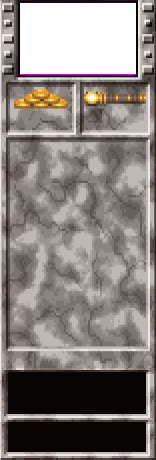
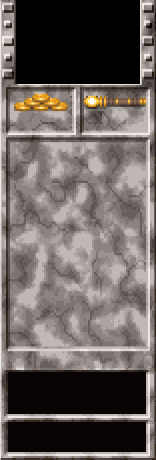
Make minimap hole the correct size; convert the overland map RHP to a use XML layout manager

Changed region(s): [[0.0, 0.0, 1.0, 0.2739], [0.4872, 0.2435, 0.5128, 0.2739]]

diff --git a/Client/src/main/java/momime/client/ui/panels/OverlandMapRightHandPanel.java b/Client/src/main/java/momime/client/ui/panels/OverlandMapRightHandPanel.java
@@ -37,6 +37,7 @@ import com.ndg.multiplayer.session.PlayerPublicDetails;
 import com.ndg.swing.GridBagConstraintsNoFill;
 import com.ndg.swing.MouseClickListener;
 import com.ndg.swing.actions.LoggingAction;
+import com.ndg.swing.layoutmanagers.xmllayout.XmlLayoutComponent;
 import com.ndg.swing.layoutmanagers.xmllayout.XmlLayoutContainerEx;
 import com.ndg.swing.layoutmanagers.xmllayout.XmlLayoutManager;
 
@@ -102,6 +103,9 @@ public final class OverlandMapRightHandPanel extends MomClientPanelUI
 
 	/** Width of the colour patch for one player */
 	private final static int COLOUR_PATCH_WIDTH = 8;
+
+	/** XML layout for the overall panel */
+	private XmlLayoutContainerEx overlandMapRightHandPanelLayout;
 	
 	/** XML layout for the surveyor subpanel */
 	private XmlLayoutContainerEx surveyorLayout;
@@ -344,12 +348,6 @@ public final class OverlandMapRightHandPanel extends MomClientPanelUI
 		final BufferedImage playerAI = getUtils ().loadImage ("/momime.client.graphics/ui/overland/rightHandPanel/playerAI.png");
 		final BufferedImage playerAllocatedMovement = getUtils ().loadImage ("/momime.client.graphics/ui/overland/rightHandPanel/playerAllocatedMovement.png");
 		
-		// Fix the size of the panel to be the same as the background
-		final Dimension backgroundSize = new Dimension (background.getWidth (), background.getHeight ());
-		getPanel ().setMinimumSize (backgroundSize);
-		getPanel ().setMaximumSize (backgroundSize);
-		getPanel ().setPreferredSize (backgroundSize);
-		
 		// Actions
 		nextTurnAction = new LoggingAction ((ev) -> getOverlandMapProcessing ().nextTurnButton ());
 		doneAction = new LoggingAction ((ev) -> getOverlandMapProcessing ().selectedUnitsDone ());
@@ -386,47 +384,36 @@ public final class OverlandMapRightHandPanel extends MomClientPanelUI
 		});
 		
 		// Set up layout
-		getPanel ().setLayout (new GridBagLayout ());
+		getPanel ().setLayout (new XmlLayoutManager (getOverlandMapRightHandPanelLayout ()));
 		
 		// Minimap view
-		final Dimension minimapSize = new Dimension (116, 73);
-		
 		final JPanel minimap = new JPanel ();
 		minimap.setBackground (new Color (0x008000));
-		minimap.setMinimumSize (minimapSize);
-		minimap.setMaximumSize (minimapSize);
-		minimap.setPreferredSize (minimapSize);
 		
-		getPanel ().add (minimap, getUtils ().createConstraintsNoFill (0, 0, 2, 1, new Insets (0, 0, 35, 0), GridBagConstraintsNoFill.CENTRE));
+		getPanel ().add (minimap, "frmRightHandPanelMiniMap");
 		
 		// Amounts stored
 		goldAmountStored = getUtils ().createShadowedLabel (Color.BLACK, MomUIConstants.GOLD, getMediumFont ());
-		
-		final GridBagConstraints goldAmountStoredConstraints = getUtils ().createConstraintsNoFill (0, 1, 1, 1, new Insets (0, 4, 0, 0), GridBagConstraintsNoFill.CENTRE);
-		goldAmountStoredConstraints.weightx = 0.5;
-		getPanel ().add (goldAmountStored, goldAmountStoredConstraints);
+		getPanel ().add (goldAmountStored, "frmRightHandPanelGoldStored");
 
 		manaAmountStored = getUtils ().createShadowedLabel (Color.BLACK, MomUIConstants.GOLD, getMediumFont ());
-		
-		final GridBagConstraints manaAmountStoredConstraints = getUtils ().createConstraintsNoFill (1, 1, 1, 1, new Insets (0, 0, 0, 2), GridBagConstraintsNoFill.CENTRE);
-		manaAmountStoredConstraints.weightx = 0.5;
-		getPanel ().add (manaAmountStored, manaAmountStoredConstraints);
+		getPanel ().add (manaAmountStored, "frmRightHandPanelManaStored");
 		
 		// Card layouts - the top and bottom are stuck directly together with 0 pixel gap in between
 		topCardLayout = new CardLayout ();
 		
 		topCards = new JPanel (topCardLayout);
 		topCards.setOpaque (false);
-		getPanel ().add (topCards, getUtils ().createConstraintsNoFill (0, 2, 2, 1, new Insets (6, 0, 0, 0), GridBagConstraintsNoFill.CENTRE));
+		getPanel ().add (topCards, "frmRightHandPanelTopCard");
 
 		bottomCardLayout = new CardLayout ();
 		
 		bottomCards = new JPanel (bottomCardLayout);
 		bottomCards.setOpaque (false);
-		getPanel ().add (bottomCards, getUtils ().createConstraintsNoFill (0, 3, 2, 1, INSET, GridBagConstraintsNoFill.CENTRE));
+		getPanel ().add (bottomCards, "frmRightHandPanelBottomCard");
 		
 		// Colour patches showing players' turn sequence
-		final Dimension colourPatchesSize = new Dimension (134, 26);
+		final XmlLayoutComponent colourPatchesSize = getOverlandMapRightHandPanelLayout ().findComponent ("frmRightHandPanelPlayerColourPatches");
 		
 		colourPatches = new JPanel ()
 		{
@@ -448,7 +435,7 @@ public final class OverlandMapRightHandPanel extends MomClientPanelUI
 							final PlayerPublicDetails player = getClient ().getPlayers ().get (playerIndex);
 							final MomTransientPlayerPublicKnowledge trans = (MomTransientPlayerPublicKnowledge) player.getTransientPlayerPublicKnowledge ();
 							g.setColor (new Color (Integer.parseInt (trans.getFlagColour (), 16)));
-							g.fillRect (x, 0, COLOUR_PATCH_WIDTH, colourPatchesSize.height);
+							g.fillRect (x, 0, COLOUR_PATCH_WIDTH, colourPatchesSize.getHeight ());
 							
 							// Draw icon for AI or human player
 							g.drawImage (player.getPlayerDescription ().isHuman () ? playerHuman : playerAI, x + 1, 1, null);
@@ -463,7 +450,7 @@ public final class OverlandMapRightHandPanel extends MomClientPanelUI
 								playerIndex = 0;
 								x++;				// leave black gap
 								g.setColor (Color.WHITE);
-								g.drawLine (x, 0, x, colourPatchesSize.height);
+								g.drawLine (x, 0, x, colourPatchesSize.getHeight ());
 								x = x + 2;		// leave white line + black gap
 							}
 						}
@@ -476,14 +463,14 @@ public final class OverlandMapRightHandPanel extends MomClientPanelUI
 						{
 							final MomTransientPlayerPublicKnowledge trans = (MomTransientPlayerPublicKnowledge) player.getTransientPlayerPublicKnowledge ();
 							g.setColor (new Color (Integer.parseInt (trans.getFlagColour (), 16)));
-							g.fillRect (x, 0, COLOUR_PATCH_WIDTH, colourPatchesSize.height);
+							g.fillRect (x, 0, COLOUR_PATCH_WIDTH, colourPatchesSize.getHeight ());
 							
 							// Draw icon for AI or human player
 							g.drawImage (player.getPlayerDescription ().isHuman () ? playerHuman : playerAI, x + 1, 1, null);
 							
 							// Show whether they finished allocating movement yet
 							if (trans.getMovementAllocatedForTurnNumber () >= getClient ().getGeneralPublicKnowledge ().getTurnNumber ())
-								g.drawImage (playerAllocatedMovement, x + 1, colourPatchesSize.height - playerAllocatedMovement.getHeight () - 1, null);
+								g.drawImage (playerAllocatedMovement, x + 1, colourPatchesSize.getHeight () - playerAllocatedMovement.getHeight () - 1, null);
 
 							// Move to next position
 							x = x + COLOUR_PATCH_WIDTH;
@@ -494,11 +481,8 @@ public final class OverlandMapRightHandPanel extends MomClientPanelUI
 		};
 		
 		colourPatches.setBackground (Color.BLACK);
-		colourPatches.setMinimumSize (colourPatchesSize);
-		colourPatches.setMaximumSize (colourPatchesSize);
-		colourPatches.setPreferredSize (colourPatchesSize);
 
-		getPanel ().add (colourPatches, getUtils ().createConstraintsNoFill (0, 4, 2, 1, new Insets (4, 0, 8, 0), GridBagConstraintsNoFill.CENTRE));
+		getPanel ().add (colourPatches, "frmRightHandPanelPlayerColourPatches");
 		
 		// Top card - global economy
 		final JPanel economyPanel = getUtils ().createPanelWithBackgroundImage (economyBackground);
@@ -1728,6 +1712,22 @@ public final class OverlandMapRightHandPanel extends MomClientPanelUI
 	public final void setWizardClientUtils (final WizardClientUtils util)
 	{
 		wizardClientUtils = util;
+	}
+	
+	/**
+	 * @return XML layout for the overall panel
+	 */
+	public final XmlLayoutContainerEx getOverlandMapRightHandPanelLayout ()
+	{
+		return overlandMapRightHandPanelLayout;
+	}
+
+	/**
+	 * @param layout XML layout for the overall panel
+	 */
+	public final void setOverlandMapRightHandPanelLayout (final XmlLayoutContainerEx layout)
+	{
+		overlandMapRightHandPanelLayout = layout;
 	}
 	
 	/**

diff --git a/Client/src/test/java/momime/client/ui/panels/TestOverlandMapRightHandPanel.java b/Client/src/test/java/momime/client/ui/panels/TestOverlandMapRightHandPanel.java
@@ -259,7 +259,10 @@ public final class TestOverlandMapRightHandPanel
 			}
 		});
 		
-		// Layout
+		// Layouts
+		final XmlLayoutContainerEx rhpLayout = (XmlLayoutContainerEx) ClientTestData.createXmlLayoutUnmarshaller ().unmarshal (getClass ().getResource ("/momime.client.ui.panels/OverlandMapRightHandPanel.xml"));
+		rhpLayout.buildMaps ();
+
 		final XmlLayoutContainerEx surveyorLayout = (XmlLayoutContainerEx) ClientTestData.createXmlLayoutUnmarshaller ().unmarshal (getClass ().getResource ("/momime.client.ui.panels/OverlandMapRightHandPanel-Surveyor.xml"));
 		surveyorLayout.buildMaps ();
 		
@@ -278,6 +281,7 @@ public final class TestOverlandMapRightHandPanel
 		panel.setSmallFont (CreateFontsForTests.getSmallFont ());
 		panel.setMediumFont (CreateFontsForTests.getMediumFont ());
 		panel.setLargeFont (CreateFontsForTests.getLargeFont ());
+		panel.setOverlandMapRightHandPanelLayout (rhpLayout);
 		panel.setSurveyorLayout (surveyorLayout);
 		panel.setWizardClientUtils (wizardClientUtils);
 		
